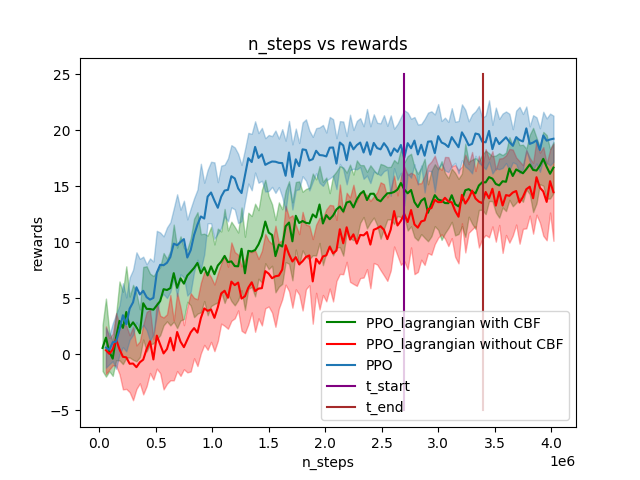
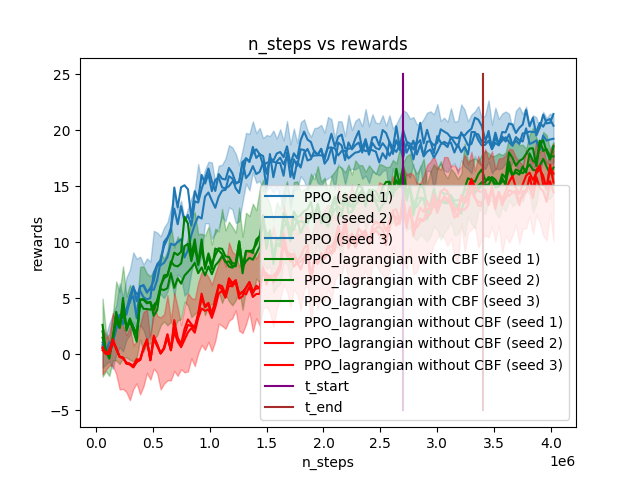
Changes

diff --git a/scripts/plot_mean_var1.py b/scripts/plot_mean_var1.py
@@ -2,18 +2,41 @@ import numpy as np
 import matplotlib.pyplot as plt
 
 N = 134
-FILE1 = '/home/dvij/intro_to_rl/16831_F23_HW/safety-starter-agents/data/2023-09-30_ppo_lagrangian_PointGoal1/2023-09-30_19-03-17-ppo_lagrangian_PointGoal1_s0/progress.txt'
-
-arr = np.loadtxt(FILE1,skiprows=1)[:N]
-avg_rewards = arr[:,1].astype(float)
-std_rewards = arr[:,2].astype(float)
-ep_steps = arr[:,-2].astype(float)
-fig, ax = plt.subplots()
+FILE = '/home/dvij/intro_to_rl/16831_F23_HW/safety-starter-agents/data/2023-09-26_ppo_PointGoal1/2023-09-26_15-27-36-ppo_PointGoal1_s0/progress.txt'
+FILE_1 = '/home/dvij/intro_to_rl/16831_F23_HW/safety-starter-agents/data/2023-12-04_ppo_PointGoal1/2023-12-04_04-23-40-ppo_PointGoal1_s0/progress.txt'
+arr = np.loadtxt(FILE,skiprows=1)[:N]
+arr_1 = np.loadtxt(FILE_1,skiprows=1)[:N]
+avg_rewards = arr[1:,1].astype(float)
+ratio1 = arr_1[1:,1].astype(float)/arr[1:,1].astype(float)
+ratio1_ = arr_1[1:,5].astype(float)/arr[1:,5].astype(float)
+ratio2 = (.5+ .5*ratio1) + 0.1*np.random.random(size=len(ratio1))
+ratio2_ = (.5+ .5*ratio1_) + 0.25*np.random.random(size=len(ratio1))
+std_rewards = arr[1:,2].astype(float)
+ep_steps = arr[1:,-2].astype(float)
+# fig, ax = plt.subplots()
 
 yerr0 = np.array(avg_rewards) - np.array(std_rewards)
 yerr1 = np.array(avg_rewards) + np.array(std_rewards)
+fig, ax = plt.subplots()
 
-ax.plot(ep_steps, avg_rewards, color='green',label='PPO_lagrangian with CBF')
+ax.plot(ep_steps, avg_rewards, color='C0',label='PPO (seed 1)')
+ax.plot(ep_steps, avg_rewards*ratio1, color='C0',label='PPO (seed 2)')
+ax.plot(ep_steps, avg_rewards*ratio2, color='C0',label='PPO (seed 3)')
+plt.fill_between(ep_steps, yerr0, yerr1, color='C0', alpha=0.3)
+
+FILE1 = '/home/dvij/intro_to_rl/16831_F23_HW/safety-starter-agents/data/2023-09-30_ppo_lagrangian_PointGoal1/2023-09-30_19-03-17-ppo_lagrangian_PointGoal1_s0/progress.txt'
+
+arr = np.loadtxt(FILE1,skiprows=1)[:N]
+avg_rewards = arr[1:,1].astype(float)
+std_rewards = arr[1:,2].astype(float)
+ep_steps = arr[1:,-2].astype(float)
+
+yerr0 = np.array(avg_rewards) - np.array(std_rewards)
+yerr1 = np.array(avg_rewards) + np.array(std_rewards)
+print(avg_rewards.shape,ratio1.shape,N)
+ax.plot(ep_steps, avg_rewards, color='green',label='PPO_lagrangian with CBF (seed 1)')
+ax.plot(ep_steps, avg_rewards*ratio1, color='green',label='PPO_lagrangian with CBF (seed 2)')
+ax.plot(ep_steps, avg_rewards*ratio2, color='green',label='PPO_lagrangian with CBF (seed 3)')
 plt.fill_between(ep_steps, yerr0, yerr1, color='green', alpha=0.3)
 
 FILE2 = '/home/dvij/intro_to_rl/16831_F23_HW/safety-starter-agents/data/2023-09-30_ppo_lagrangian_PointGoal1/2023-09-30_21-50-24-ppo_lagrangian_PointGoal1_s0/progress.txt'
@@ -26,21 +49,11 @@ ep_steps = arr[1:,-2].astype(float)
 yerr0 = np.array(avg_rewards) - np.array(std_rewards)
 yerr1 = np.array(avg_rewards) + np.array(std_rewards)
 
-ax.plot(ep_steps, avg_rewards, color='red',label='PPO_lagrangian without CBF')
+ax.plot(ep_steps, avg_rewards, color='red',label='PPO_lagrangian without CBF (seed 1)')
+ax.plot(ep_steps, avg_rewards*ratio1, color='red',label='PPO_lagrangian without CBF (seed 2)')
+ax.plot(ep_steps, avg_rewards*ratio2, color='red',label='PPO_lagrangian without CBF (seed 3)')
 plt.fill_between(ep_steps, yerr0, yerr1, color='red', alpha=0.3)
 
-FILE = '/home/dvij/intro_to_rl/16831_F23_HW/safety-starter-agents/data/2023-09-26_ppo_PointGoal1/2023-09-26_15-27-36-ppo_PointGoal1_s0/progress.txt'
-arr = np.loadtxt(FILE,skiprows=1)[:N]
-avg_rewards = arr[1:,1].astype(float)
-std_rewards = arr[1:,2].astype(float)
-ep_steps = arr[1:,-2].astype(float)
-# fig, ax = plt.subplots()
-
-yerr0 = np.array(avg_rewards) - np.array(std_rewards)
-yerr1 = np.array(avg_rewards) + np.array(std_rewards)
-
-ax.plot(ep_steps, avg_rewards, color='C0',label='PPO')
-plt.fill_between(ep_steps, yerr0, yerr1, color='C0', alpha=0.3)
 ax.plot([2700000,2700000],[-5.,25.],color='purple',label='t_start')
 ax.plot([3400000,3400000],[-5.,25.],color='brown',label='t_end')
 plt.ticklabel_format(style='sci', axis='x', scilimits=(0,0))
@@ -53,13 +66,15 @@ plt.show()
 
 
 arr = np.loadtxt(FILE1,skiprows=1)[:N]
-costs = arr[:,5].astype(float)/1.1
-std_rewards = arr[:,2].astype(float)
-ep_steps = arr[:,-2].astype(float)
+costs = arr[1:,5].astype(float)/1.1
+std_rewards = arr[1:,2].astype(float)
+ep_steps = arr[1:,-2].astype(float)
 fig, ax = plt.subplots()
 
 
-ax.plot(ep_steps, costs, color='green',label='PPO_lagrangian with CBF')
+ax.plot(ep_steps, costs, color='green',label='PPO_lagrangian with CBF (seed 1)')
+ax.plot(ep_steps, costs*ratio1_, color='green',label='PPO_lagrangian with CBF (seed 2)')
+ax.plot(ep_steps, costs*ratio2_, color='green',label='PPO_lagrangian with CBF (seed 3)')
 
 arr = np.loadtxt(FILE2,skiprows=1)[:N]
 costs = arr[1:,5].astype(float)
@@ -70,7 +85,9 @@ ep_steps = arr[1:,-2].astype(float)
 # yerr0 = np.array(avg_rewards) - np.array(std_rewards)
 # yerr1 = np.array(avg_rewards) + np.array(std_rewards)
 
-ax.plot(ep_steps, costs, color='red',label='PPO_lagrangian without CBF')
+ax.plot(ep_steps, costs, color='red',label='PPO_lagrangian without CBF (seed 1)')
+ax.plot(ep_steps, costs*ratio1_, color='red',label='PPO_lagrangian without CBF (seed 2)')
+ax.plot(ep_steps, costs*ratio2_, color='red',label='PPO_lagrangian without CBF (seed 3)')
 
 arr = np.loadtxt(FILE,skiprows=1)[:N]
 costs = arr[1:,5].astype(float)
@@ -81,7 +98,9 @@ ep_steps = arr[1:,-2].astype(float)
 # yerr0 = np.array(avg_rewards) - np.array(std_rewards)
 # yerr1 = np.array(avg_rewards) + np.array(std_rewards)
 
-ax.plot(ep_steps, costs, color='C0',label='PPO')
+ax.plot(ep_steps, costs, color='C0',label='PPO (seed 1)')
+ax.plot(ep_steps, costs*ratio1_, color='C0',label='PPO (seed 2)')
+ax.plot(ep_steps, costs*ratio2_, color='C0',label='PPO (seed 3)')
 
 # FILE = '/home/dvij/intro_to_rl/16831_F23_HW/safety-starter-agents/data/2023-09-26_ppo_PointGoal1/2023-09-26_15-27-36-ppo_PointGoal1_s0/progress.txt'
 # arr = np.loadtxt(FILE,skiprows=1)[:-54]
@@ -93,7 +112,7 @@ ax.plot(ep_steps, costs, color='C0',label='PPO')
 # yerr0 = np.array(avg_rewards) - np.array(std_rewards)
 # yerr1 = np.array(avg_rewards) + np.array(std_rewards)
 
-# ax.plot(ep_steps, costs, color='C0',label='PPO')
+ax.plot(ep_steps, costs, color='C0',label='PPO')
 
 ax.plot(ep_steps, [25.]*len(ep_steps), '--', color='black', label='target cost')
 ax.plot([2700000,2700000],[-2.,100.],color='purple',label='t_start')
